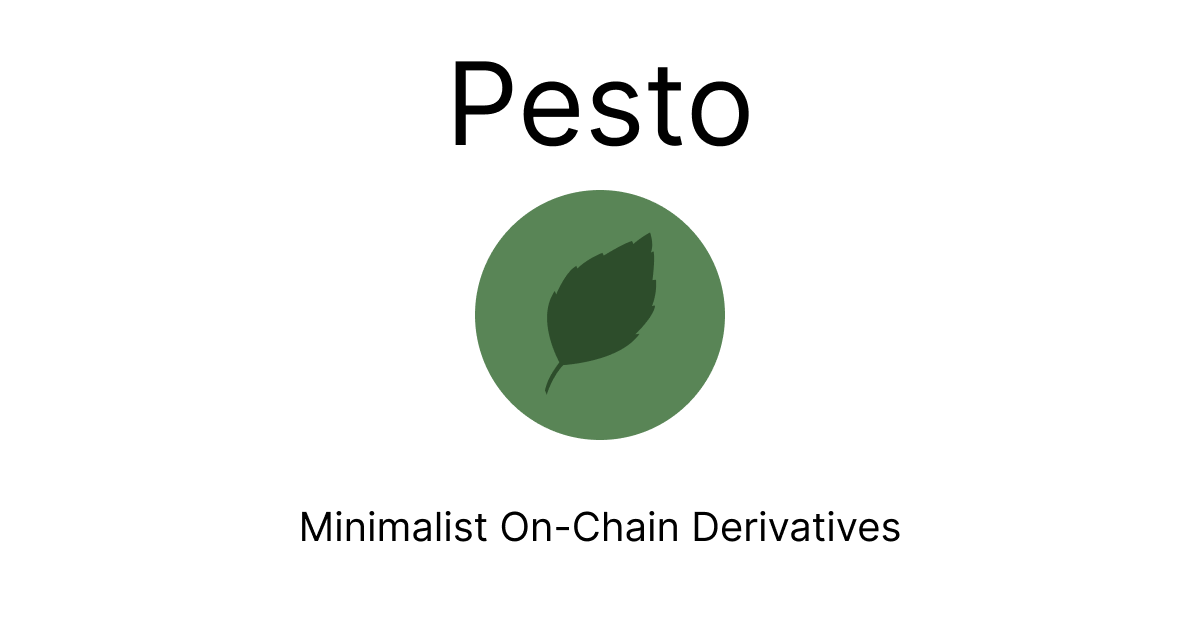
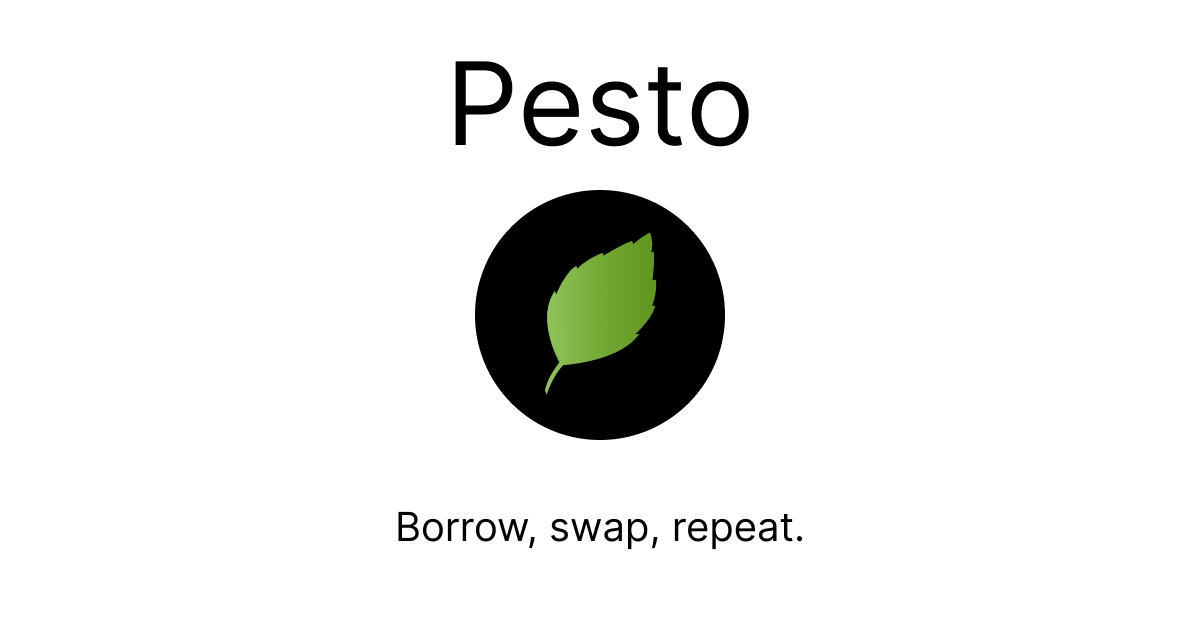
style: update diagrams and brannding assets

Changed region(s): [[0.37, 0.3016, 0.6167, 0.7238], [0.2467, 0.8143, 0.7708, 0.8746]]

diff --git a/theme.config.tsx b/theme.config.tsx
@@ -19,11 +19,11 @@ const config: DocsThemeConfig = {
 		return {
 			titleTemplate: "Pesto - %s",
 			description:
-				"Pesto is a minimalist, on-chain derivatives protocol that enables users to create independent positions with varying degrees of exposure and hedging strategies.",
+				"Pesto is a minimalist, on-chain DeFi protocol that enables users to create independent positions with varying degrees of exposure and hedging strategies.",
 			openGraph: {
 				title: "Pesto",
 				description:
-					"Pesto is a minimalist, on-chain derivatives protocol that enables users to create independent positions with varying degrees of exposure and hedging strategies.",
+					"Pesto is a minimalist, on-chain DeFi protocol that enables users to create independent positions with varying degrees of exposure and hedging strategies.",
 				url: "https://docs.pesto.finance",
 				type: "website",
 				images: [
@@ -37,7 +37,7 @@ const config: DocsThemeConfig = {
 			twitter: {
 				title: "Pesto",
 				description:
-					"Pesto is a minimalist, on-chain derivatives protocol that enables users to create independent positions with varying degrees of exposure and hedging strategies.",
+					"Pesto is a minimalist, on-chain DeFi protocol that enables users to create independent positions with varying degrees of exposure and hedging strategies.",
 				cardType: "summary_large_image",
 				images: [
 					{

diff --git a/README.md b/README.md
@@ -1,6 +1,6 @@
 # Pesto Docs
 
-Pesto is a minimalist, on-chain derivatives protocol that enables users to create independent positions in a single transaction, offering varying degrees of exposure and hedging strategies. The core protocol is immutable, operates without governance, and incentivizes decentralized frontends.
+Pesto is a minimalist, on-chain DeFi protocol that enables users to create independent positions in a single transaction, offering varying degrees of exposure and hedging strategies. The core protocol is immutable, operates without governance, and incentivizes decentralized frontends.
 
 ## License
 
